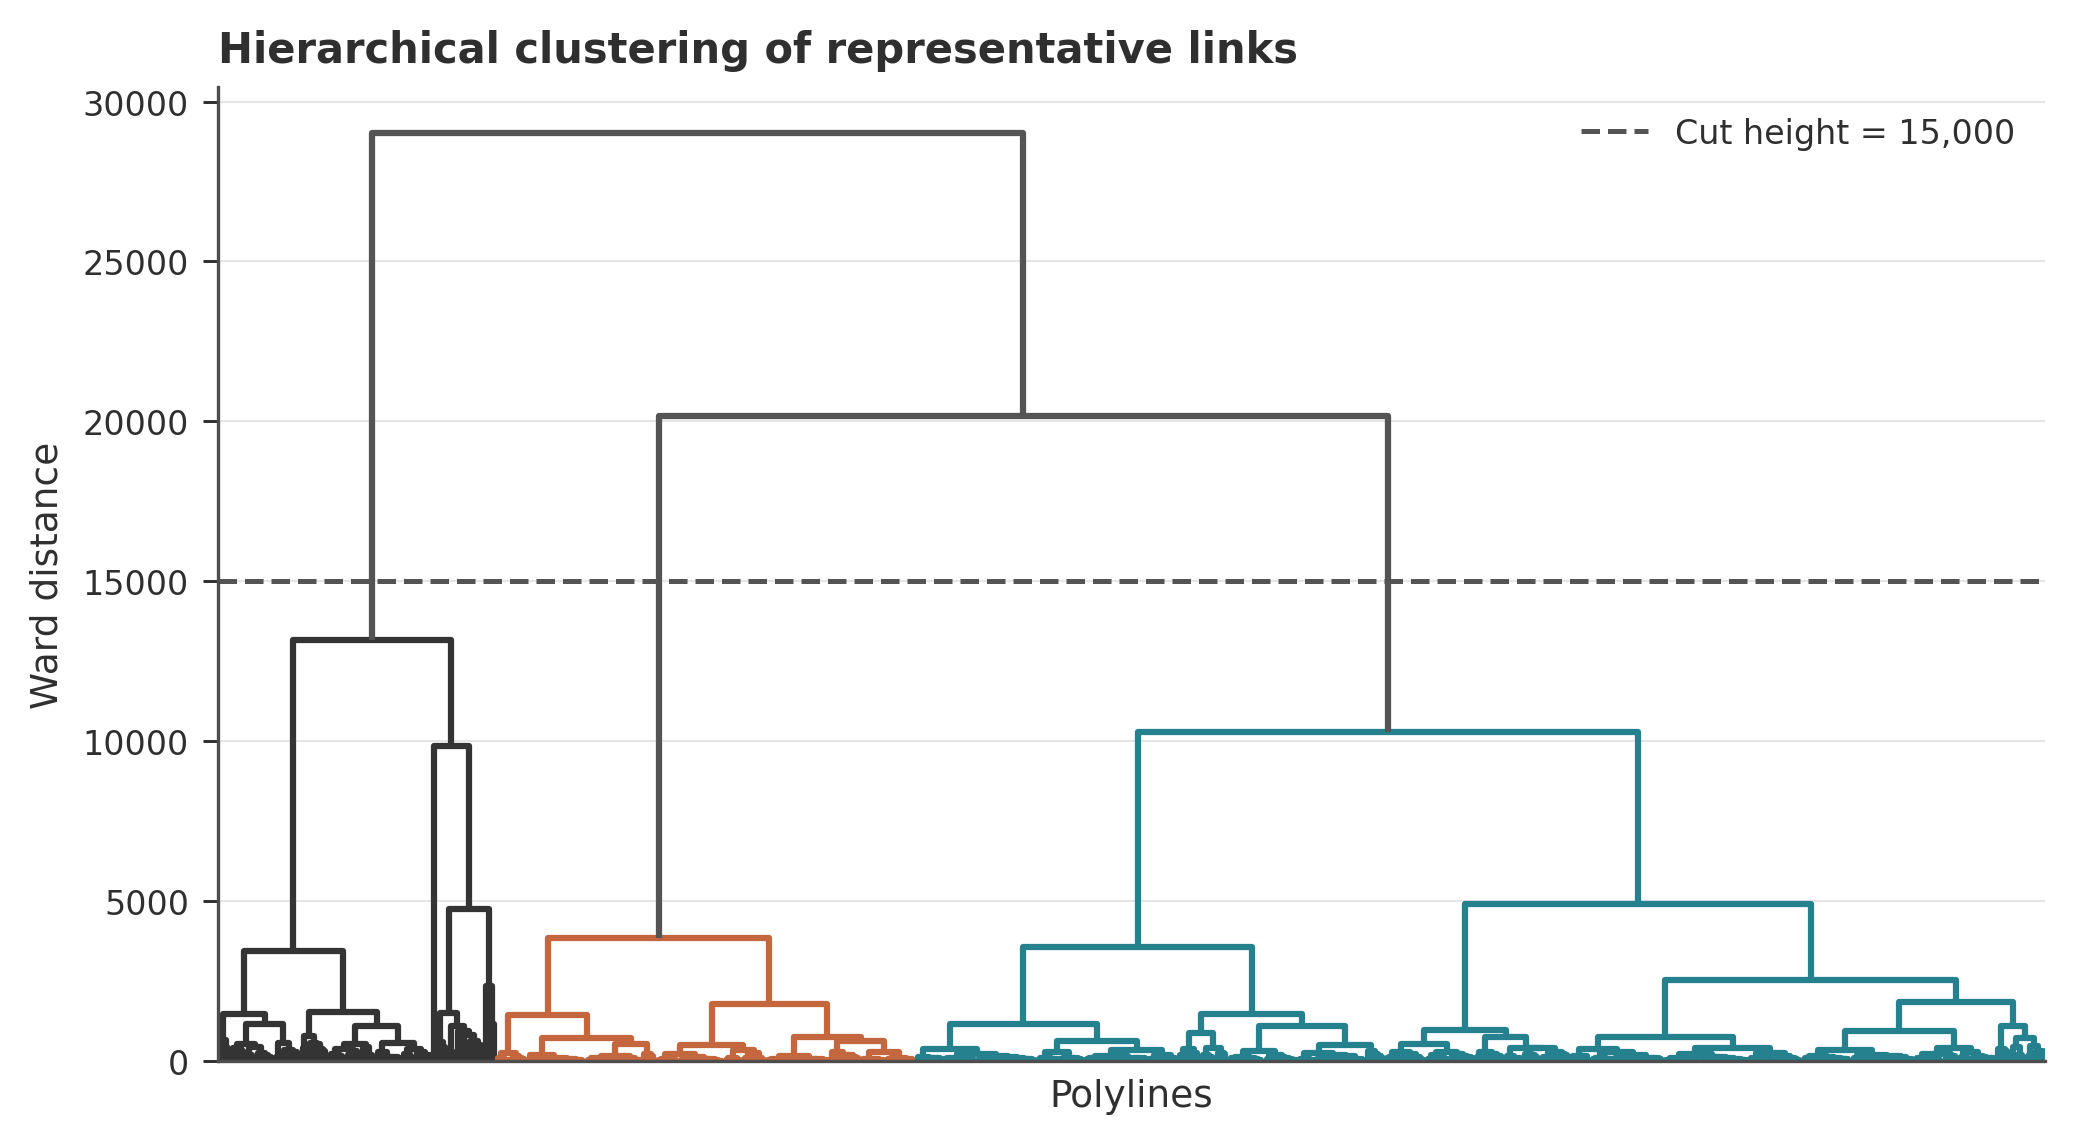
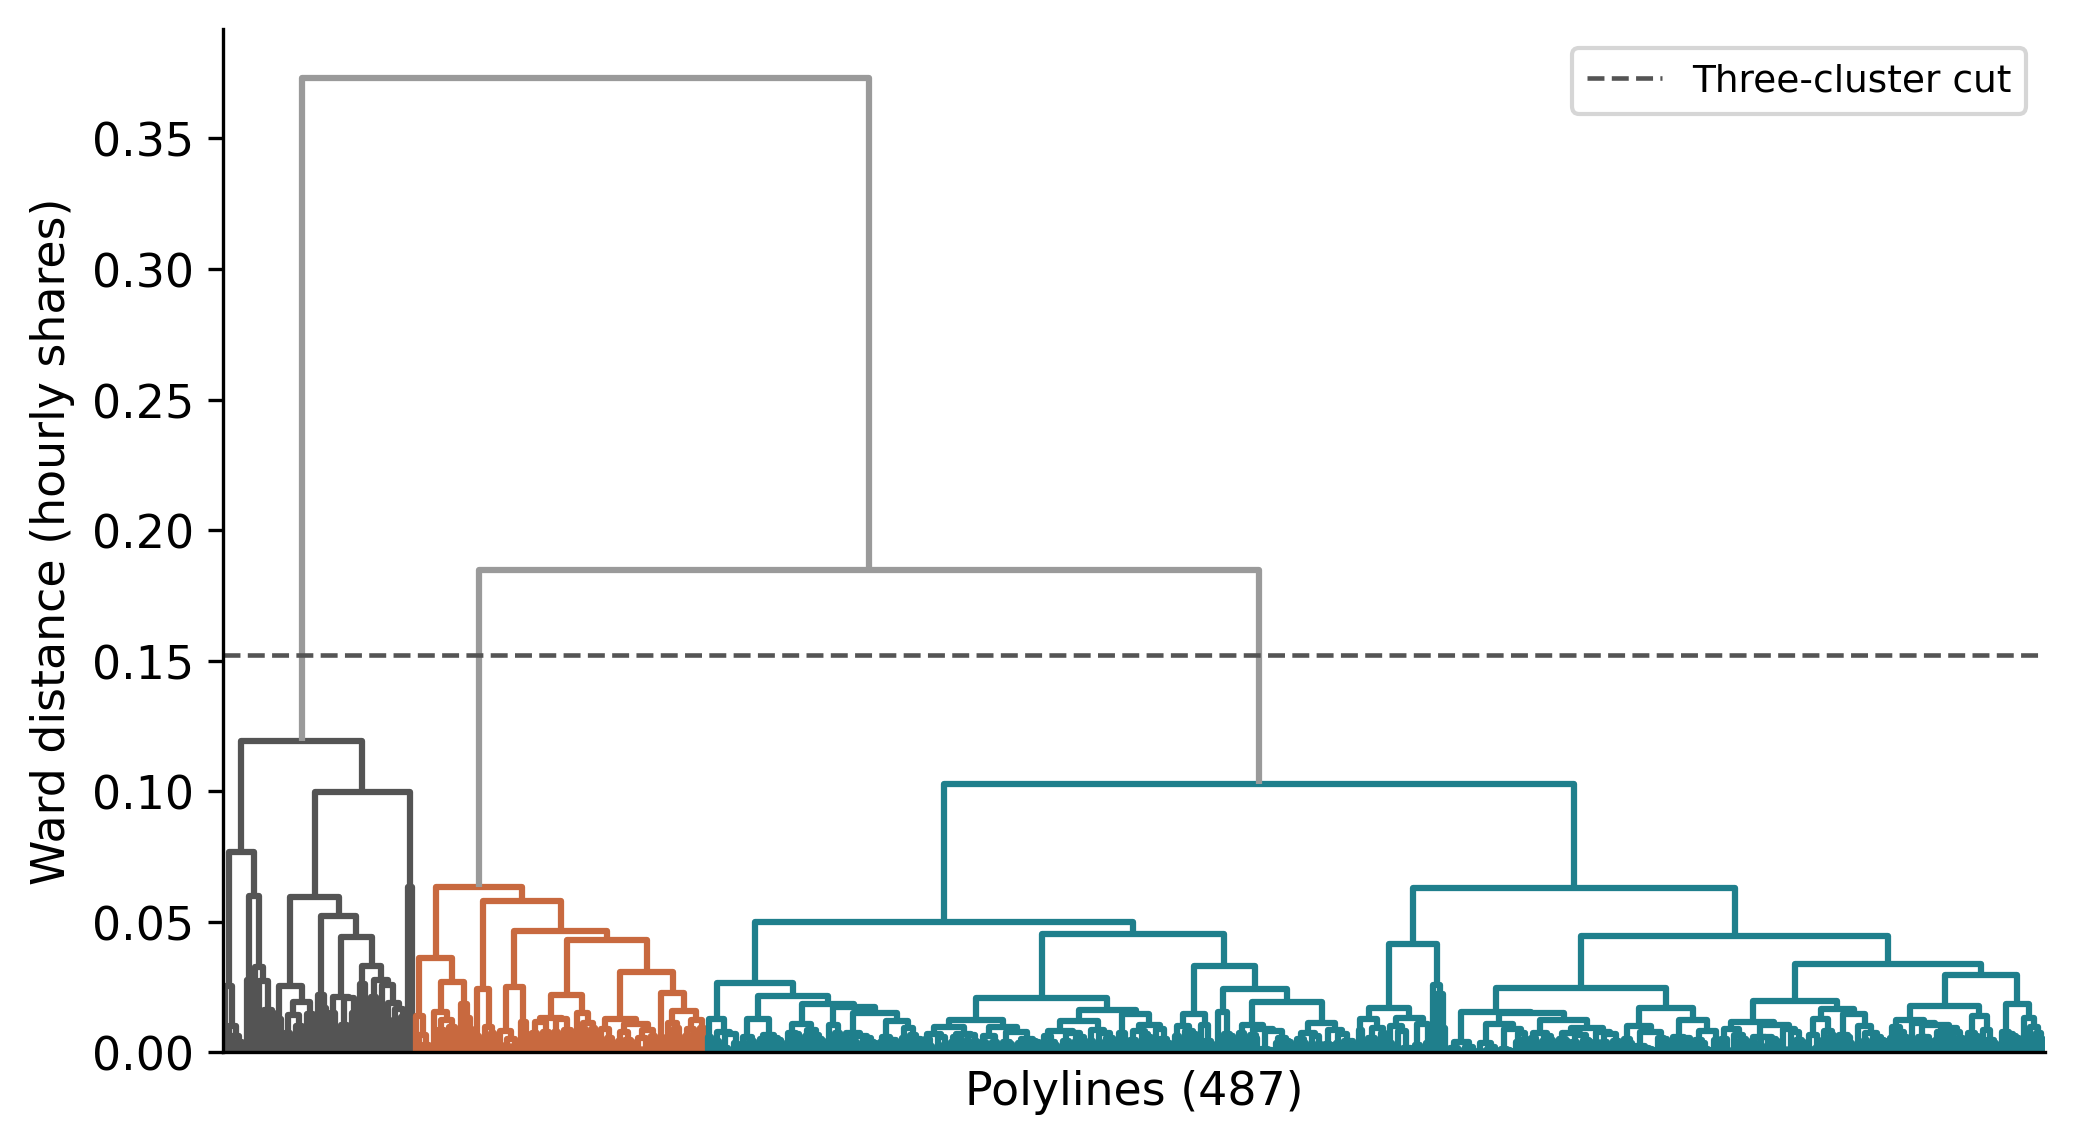
Cluster normalised profiles and reselect the example links (point 11)
The archived Ward clustering used raw hourly counts, so it grouped links
by volume. Profiles are now divided by their daily total before Ward
linkage (ARI 0.18 with the raw-count partition). The candidate set is
the 487 links of the upper k-means class of log10 eta (the text claimed
17). Three-cluster cut at Ward distance 0.15: 51/78/358 links. With
104671 fixed, the lowest-MAE pair at >= 40 km is 134419 and 64544
(MAE 0.81 and 0.72 pp, better than 95% and 99% of links); 104671 has
MAE 1.22 pp. Figs. 8-9, Supplementary Fig. S2 and the representative
table are regenerated; the text says the two links are best cases.

diff --git a/tex/epjds_main_draft.tex b/tex/epjds_main_draft.tex
@@ -270,34 +270,28 @@ To judge these values we apply two fixed profiles to every link and compute the 
 
 \subsection{Temporal subclusters and representative roads}
 
-The most informative penetration stratum is not temporally homogeneous. In 2020, the validation archive contains 930 common simulated--Viasat links, of which 827 have usable profiles after filtering; the representative high-penetration class contains 17 candidate links (Supplementary Section~S5). We therefore cluster the hourly simulated profiles of this candidate set using Ward agglomerative clustering. Cutting the dendrogram at a Ward distance of 15,000 yields three subclusters (Fig.~\ref{fig:subclusters}a). Their spatial distribution is distinct enough to support illustrative validation examples: each cluster contributes one representative road, and the selected roads are constrained to remain geographically separated (Fig.~\ref{fig:subclusters}b). This makes the final comparison a test of distinct temporal profiles rather than a repeated inspection of neighbouring links with nearly identical dynamics \cite{ward1963,murtagh2014}. The three links are not intended to be the only evidence of validation; the full matched-link statistics, candidate-filtering logic, penetration classes, mean profile discrepancies and selection outcomes are reported in Supplementary Section~S5.
+To show individual comparisons we take the 487 links of the upper class of a three-class $k$-means partition of $\log_{10}\eta_i$, which corresponds to $\eta_i\ge0.40\%$ in 2020. Their simulated profiles are normalized to hourly shares and clustered with Ward linkage and Euclidean distance \cite{ward1963,murtagh2014}; normalizing removes the volume of each road, so the clusters group links by the shape of their daily profile. Cutting the dendrogram into three clusters (Ward distance 0.15, Fig.~\ref{fig:subclusters}a) gives subclusters of 51, 78 and 358 links. Subcluster~1 has the sharpest morning peak (7.1\% of daily traffic at 07:00) and the fastest evening decline, subcluster~3 the flattest morning and the largest evening tail, and subcluster~2 lies in between (Supplementary Fig.~S2). The three subclusters are spread over the whole validation area (Fig.~\ref{fig:subclusters}b).
 
 \begin{figure*}[htbp]
   \centering
   \includegraphics[width=\textwidth,height=.72\textheight,keepaspectratio]{fig5.png}
-  \caption{\textbf{Subclustering of the representative GPS-penetration
-  stratum in 2020.}
-  \textbf{(a)} Ward dendrogram of hourly link-flow profiles; the dashed line
-  marks the adopted cut at 15,000.
-  \textbf{(b)} Spatial location of the three resulting subclusters, using
-  the same colours as the dendrogram.}
+  \caption{\textbf{Subclusters of the high-penetration links in 2020.}
+  \textbf{(a)} Ward dendrogram of the normalized hourly profiles of the 487 candidate links; the dashed line marks the three-cluster cut.
+  \textbf{(b)} Location of the three subclusters, with the number of links in parentheses.}
   \label{fig:subclusters}
 \end{figure*}
 
-Polyline 104671 is kept as the charcoal representative because it is close to the urbanized Forlimpopoli area and therefore has a clear geographical interpretation. The remaining two representatives are the links of the other clusters with the lowest MAE, subject to a minimum pairwise distance of 40~km, which prevents selecting three neighbouring roads. The resulting links are 187204 and 132443. Their MAE values are 0.53, 0.76 and 0.61~pp, respectively, and the minimum pairwise separation is 41.9~km (Fig.~\ref{fig:representatives}). The visual agreement of the daily profiles illustrates the reconstructed temporal shape on roads with different cluster membership and different positions in the validation area; broader validation distributions are reported in Supplementary Section~S5.
+One link per subcluster is shown in Fig.~\ref{fig:representatives}. Polyline 104671 is kept because it lies close to the urban area of Forlimpopoli. The other two are the links of subclusters~2 and~3 with the lowest MAE among those at least 40~km from the other representatives: polylines 134419 and 64544. They are therefore best cases. Their MAE is 0.81 and 0.72~pp ($\varepsilon=19\%$ and 17\%), lower than on 95\% and 99\% of the usable links, while polyline 104671 has MAE $=1.22$~pp ($\varepsilon=29\%$), close to the median of the $\eta\sim10^{-2}$ class (Supplementary Section~S5). On all three roads the simulated morning rise precedes the GPS one by about an hour, which is the lead discussed above.
 
 \begin{figure*}[htbp]
   \centering
   \includegraphics[width=\textwidth]{fig6.png}
-  \caption{\textbf{Validation on spatially distributed representative
-  polylines, 10--17 February 2020.}
-  \textbf{(a--c)} Mean simulated hourly flow and penetration-normalized Viasat profile,
-  with the hourly absolute share difference $|p_i(h)-q_i(h)|$ below.
-  \textbf{(a)} Polyline 104671, MAE $=0.53$~pp.
-  \textbf{(b)} Polyline 187204, MAE $=0.76$~pp.
-  \textbf{(c)} Polyline 132443, MAE $=0.61$~pp.
-  \textbf{(d)} CartoDB Positron map of the three selected polylines, coloured
-  as in Fig.~\ref{fig:subclusters}.}
+  \caption{\textbf{Representative links, 10--17 February 2020.}
+  \textbf{(a--c)} Mean simulated hourly flow and penetration-normalized Viasat profile (top) and hourly absolute share difference $|p_i(h)-q_i(h)|$ (bottom).
+  \textbf{(a)} Subcluster 1, polyline 104671, MAE $=1.22$~pp.
+  \textbf{(b)} Subcluster 2, polyline 134419, MAE $=0.81$~pp.
+  \textbf{(c)} Subcluster 3, polyline 64544, MAE $=0.72$~pp.
+  \textbf{(d)} Location of the three polylines on the road graph, coloured as in Fig.~\ref{fig:subclusters}.}
   \label{fig:representatives}
 \end{figure*}
 
@@ -422,7 +416,7 @@ where $E_i=\sum_h \phi_i(h)$ is total simulated link exposure and ranks are orie
 
 Validation uses Viasat only after matching GPS roads with simulated polylines. The GPS data are not used to generate demand, assimilate coil residuals, tune the simulation or select model parameters. They provide an external check of the temporal profiles produced by the reconstruction framework. For every matched road, the link-specific penetration coefficient in Eq.~\eqref{eq:penetration} rescales the GPS series so that total volume on that road is aligned before profile comparison. Because this scaling uses each road separately, it tests the temporal profile on that physical link rather than a region-wide sum or a universal market-penetration factor. The MAE of hourly shares in Eq.~\eqref{eq:profile_error} is used as the hourly validation diagnostic because absolute probe counts are not total traffic counts: Viasat observes a partial fleet, and its penetration varies across links. Normalization isolates whether the simulated and observed profiles rise, peak and decline at comparable hours, which is the validation target for the reconstructed temporal field. This is a conservative use of probe data: the GPS traces validate shape and timing after penetration adjustment, but they are not treated as complete traffic counts and are not merged back into the calibration or data-assimilation stages \cite{seo2015,seo2017,bellisardi2025}.
 
-To choose interpretable examples for the paper, links in the representative penetration class are clustered by their simulated hourly profiles using Ward linkage and Euclidean distance. The dendrogram is cut into three subclusters. Polyline 104671 is fixed as the charcoal representative because of its urban location near Forlimpopoli. Representatives from the other two subclusters are the links with the lowest MAE at least 40~km apart. This selection avoids visually redundant neighbouring examples and keeps one validation road for each temporal subcluster. The examples are illustrative representatives of temporal and geographical regimes, not the sole validation evidence. Extended validation tables, threshold rationale, candidate-link counts and representative-link metrics are reported in Supplementary Section~S5.
+The examples of Fig.~\ref{fig:representatives} are chosen as described in the Results: Ward clustering of the normalized simulated profiles of the high-penetration links, one link per subcluster, with polyline 104671 fixed and the other two selected by lowest MAE under a 40~km separation constraint. Supplementary Section~S5 lists the selection steps and the metrics of the selected links.
 
 \section{Discussion}
 

diff --git a/tex/epjds_supplementary_draft.tex b/tex/epjds_supplementary_draft.tex
@@ -343,9 +343,16 @@ Viasat telemetry is compared with the reconstruction after link-specific penetra
 
 \input{tables/penetration_summary}
 
-Within the representative penetration stratum, the dendrogram in the main text is cut at Ward distance 15,000. This value is not a universal clustering constant; it is the graphical cut that separates the dominant hourly-profile families without fragmenting the validation set into many single-road groups. At lower cuts, several branches represent minor variations of the same daily shape and are not useful for a concise paper figure. At higher cuts, distinct morning/evening profile families begin to merge. The adopted cut therefore provides three interpretable subclusters, which is also the number of representative roads that can be shown clearly in the validation panel.
+The candidate set for the example links is the upper class of a three-class $k$-means partition of the standardized $\log_{10}\eta_i$, which in 2020 contains the 487 links with $\eta_i\ge0.40\%$. Before clustering, each simulated profile is divided by its daily total, so that Ward linkage acts on the 24 hourly shares and not on volumes. On raw counts the Ward distance is dominated by volume: the three raw-count clusters used in the earlier version of this analysis (74, 112 and 301 links) are disjoint bands of daily traffic, 1,001--6,384, 6,597--15,446 and 14,638--55,856 simulated vehicles per day. The partition on shares has an adjusted Rand index of 0.18 with the raw-count partition, so the two groupings are largely different. The dendrogram is cut into three clusters, at Ward distance 0.15; three is also the number of example links that fit in one validation figure. Figure~\ref{fig:subcluster_profiles} shows the mean hourly shares of the three subclusters.
 
-The representative-link selection in Table~\ref{tab:representatives} balances three constraints. First, the three roads must belong to different temporal subclusters so that the paper does not validate the same daily profile three times. Second, within each subcluster the link with the lowest MAE is preferred. Third, the selected roads must be at least 40 km apart whenever possible, so the map communicates spatial coverage rather than three neighbouring links. Polyline 104671 is kept fixed because its urban position near Forlimpopoli gives it a direct interpretation; the other two are then selected by the MAE and separation criteria.
+\begin{figure}[htbp]
+  \centering
+  \includegraphics[width=0.7\textwidth]{S_subcluster_profiles.png}
+  \caption{Mean normalized simulated profile of the three subclusters of Fig.~8 of the main text (51, 78 and 358 links).}
+  \label{fig:subcluster_profiles}
+\end{figure}
+
+The selection of the example links in Table~\ref{tab:representatives} follows three rules. The three roads belong to different subclusters. Polyline 104671 is fixed because its position near Forlimpopoli gives it a direct interpretation. In the other two subclusters, among the links with at least 300 simulated vehicles per day and 50 Viasat probes in the week (all 487 candidates), we take the pair with the lowest total MAE whose pairwise distances, including the distance to 104671, are at least 40~km. The two selected links are thus among the best of the candidate set, as the last column of Table~\ref{tab:representatives} shows; the full distribution is in Table~1 and Fig.~10 of the main text.
 
 \begin{table}[htbp]
 \centering
@@ -363,22 +370,7 @@ Displayed representative links & 3 & One illustrative link per temporal subclust
 \end{tabular}
 \end{table}
 
-\begin{table}[htbp]
-\centering
-\caption{Representative polylines shown in Fig.~6 of the main manuscript.}
-\label{tab:representatives}
-\begin{tabular}{@{}rlrl@{}}
-\toprule
-Subcluster & Polyline & MAE [pp] & Selection note \\
-\midrule
-1 & 104671 & 0.528 & Fixed urban representative near Forlimpopoli. \\
-2 & 187204 & 0.761 & Lowest MAE under the separation constraint. \\
-3 & 132443 & 0.611 & Lowest MAE under the separation constraint. \\
-\bottomrule
-\multicolumn{4}{l}{\footnotesize Minimum pairwise separation among the three
-selected links: 41.9~km.}
-\end{tabular}
-\end{table}
+\input{tables/representatives}
 
 \section{Aggregate Road-safety Context}
 \label{sec:aggregate-safety}
